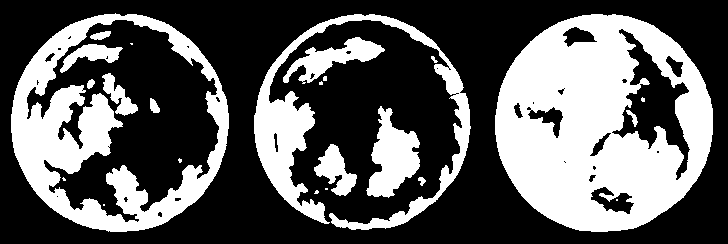
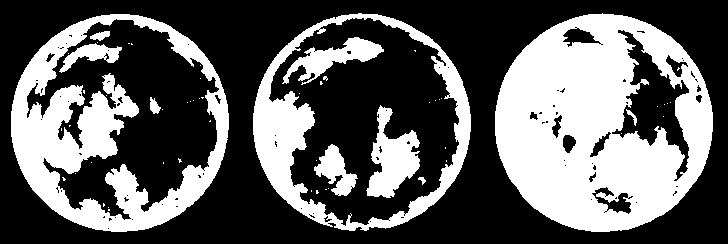
adding some hyperparameter change

diff --git a/IA/unet/train.py b/IA/unet/train.py
@@ -18,7 +18,7 @@ from utils import (
 LEARNING_RATE = 1e-4
 DEVICE = "cuda" if torch.cuda.is_available() else "cpu"
 BATCH_SIZE = 3
-NUM_EPOCHS = 3
+NUM_EPOCHS = 30
 NUM_WORKERS = 2
 IMAGE_HEIGHT = 240
 IMAGE_WIDTH = 240
